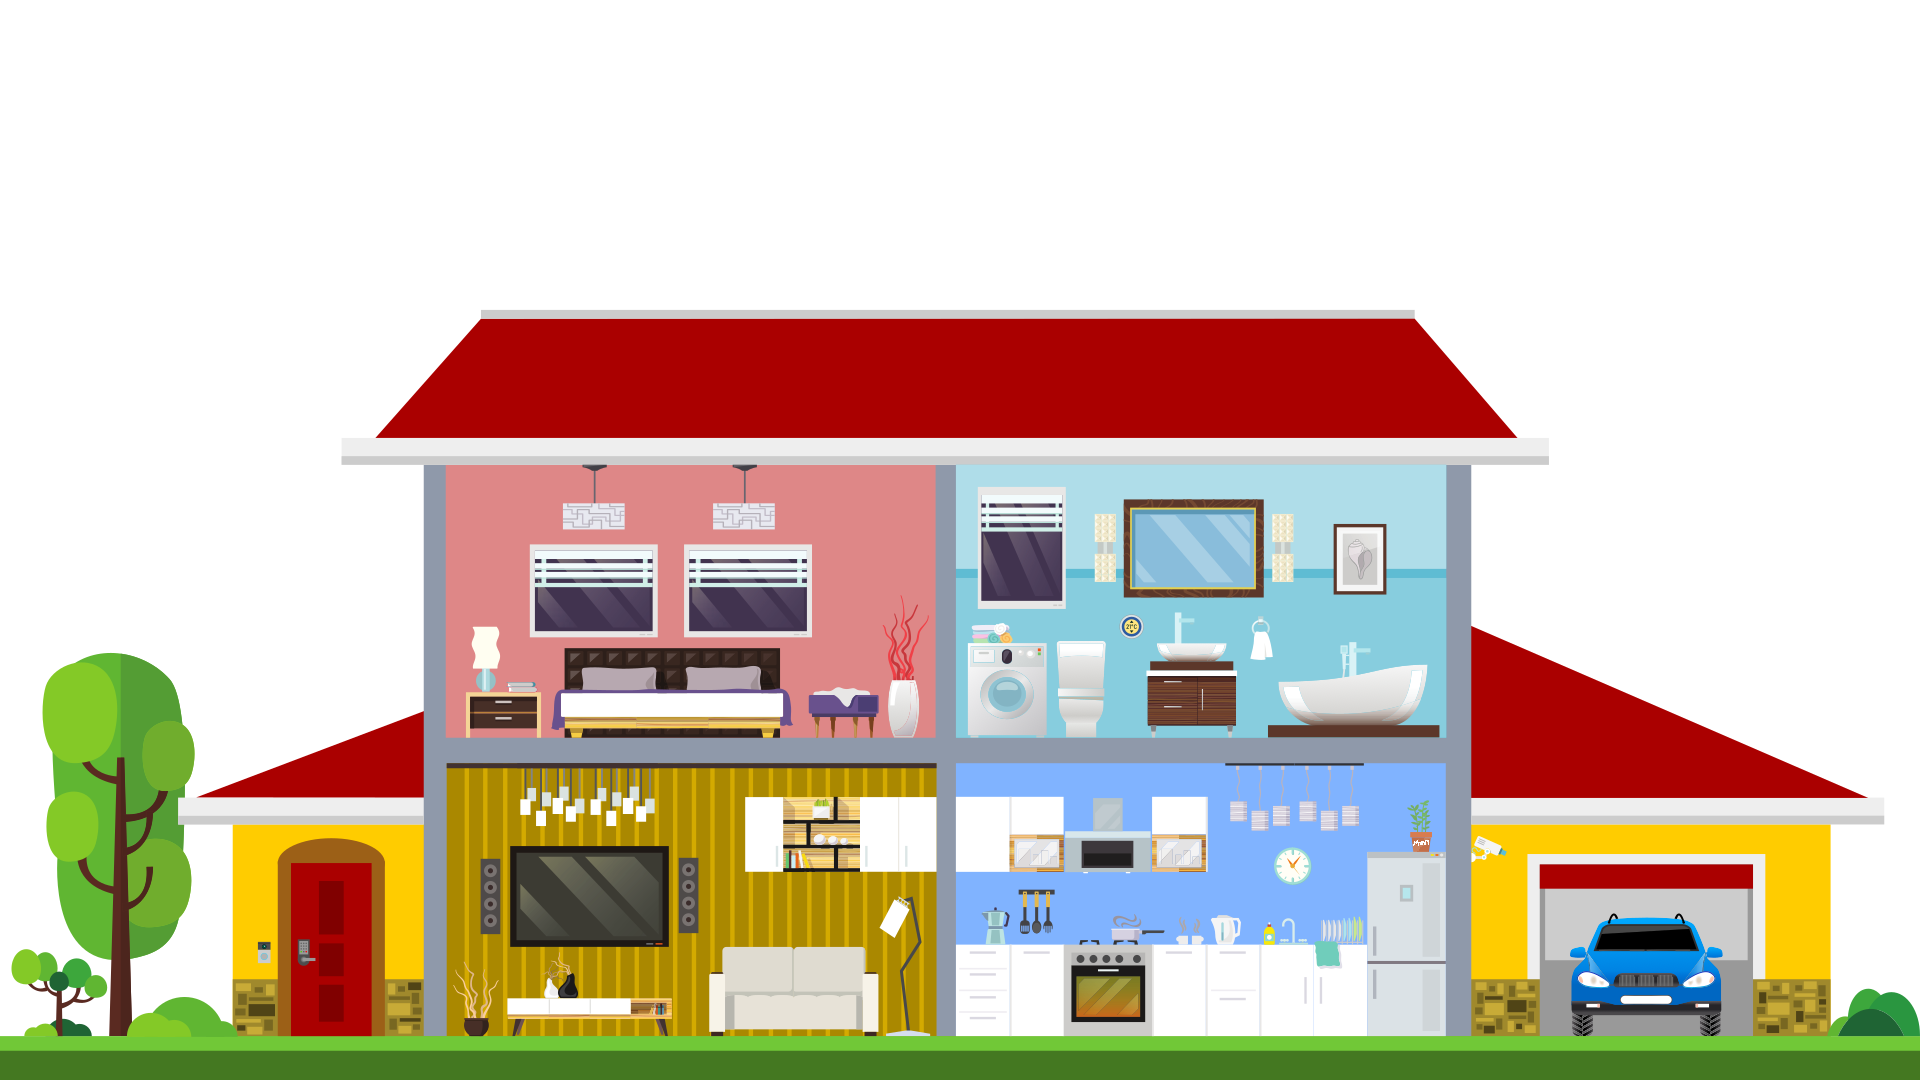
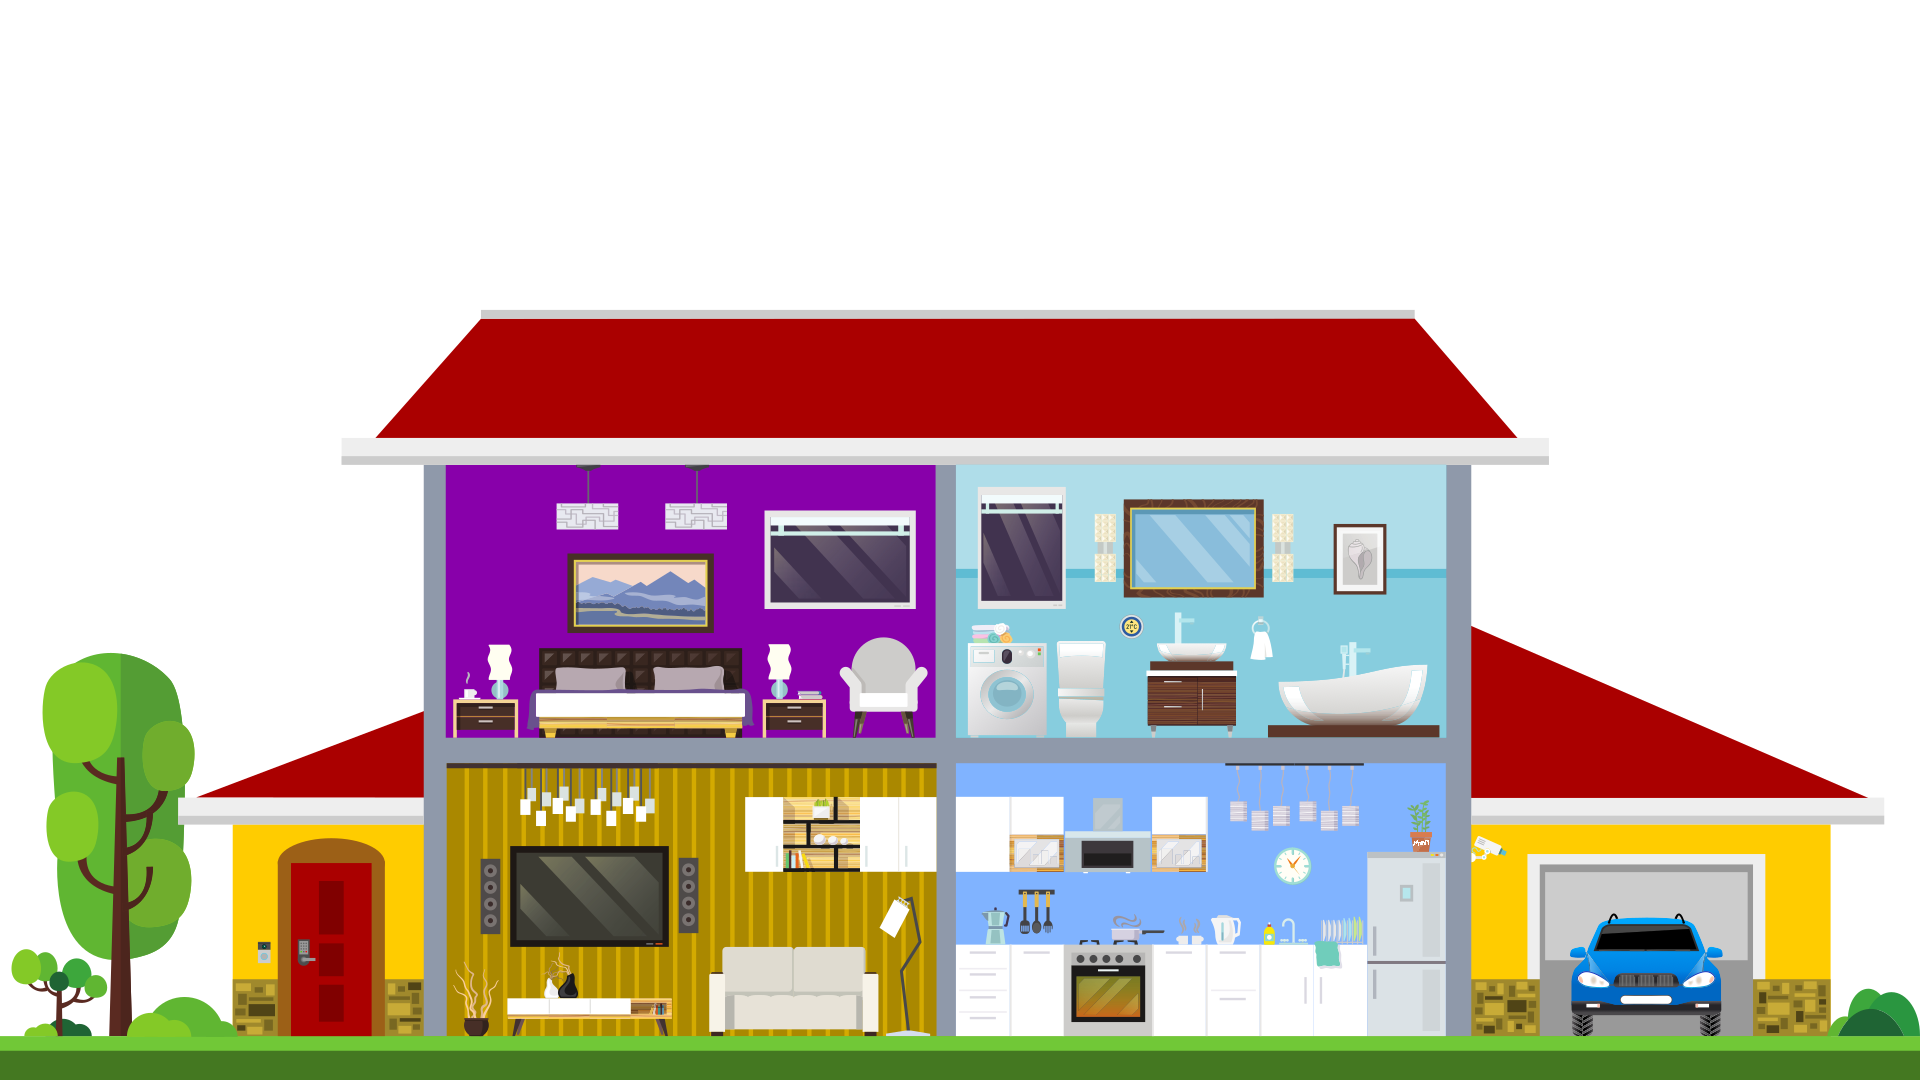
Adapt main class to new classes and use those object, also update the house graphics

Changed region(s): [[0.2188, 0.4278, 0.5625, 0.7028], [0.7812, 0.7944, 0.9375, 0.825]]

diff --git a/Code/main.py b/Code/main.py
@@ -2,6 +2,8 @@ import pygame
 import sys
 
 from Code.smart_app import SmartApp
+from Code.smart_blinds import Blinds
+from Code.smart_home import SmartHome
 
 pygame.init()
 
@@ -15,11 +17,9 @@ day = pygame.image.load("C:/Uni Basel/Mdl. Applications and Related Topics/Cyber
 noon = pygame.image.load("C:/Uni Basel/Mdl. Applications and Related Topics/Cybernetics/Cybernetic/Assets/Backgrounds/OrangeSunset.png")
 night = pygame.image.load("C:/Uni Basel/Mdl. Applications and Related Topics/Cybernetics/Cybernetic/Assets/Backgrounds/MarineblueNight.png")
 
-# Load Assets
-house = pygame.image.load("C:/Uni Basel/Mdl. Applications and Related Topics/Cybernetics/Cybernetic/Assets/HomeTest1.png")
-garage = pygame.image.load("C:/Uni Basel/Mdl. Applications and Related Topics/Cybernetics/Cybernetic/Assets/Smart_Devices/GarageDoor.png")
-
-smart_app = SmartApp("C:/Uni Basel/Mdl. Applications and Related Topics/Cybernetics/Cybernetic/Assets/Phone.png")
+# Create the smart home and the smart home application
+smart_home = SmartHome()
+smart_app = SmartApp(smart_home)
 
 # Define time intervals (in seconds) for each background
 morning_duration = 1
@@ -32,9 +32,6 @@ total_cycle_duration = morning_duration + day_duration + noon_duration + night_d
 # Clock
 clock = pygame.time.Clock()
 current_time = 0
-
-# Visibility of the smart home app
-visible = False
 
 # Main game loop
 while True:
@@ -61,8 +58,7 @@ while True:
 
     # Draw images on the screen
     screen.blit(current_background, (0, 0))
-    screen.blit(house, (0, 0))
-    screen.blit(garage, (0, 0))
+    smart_home.draw(screen)
 
     # menu_content.set_alpha(200)  # Set transparency (adjust as needed)
     smart_app.draw(screen)
